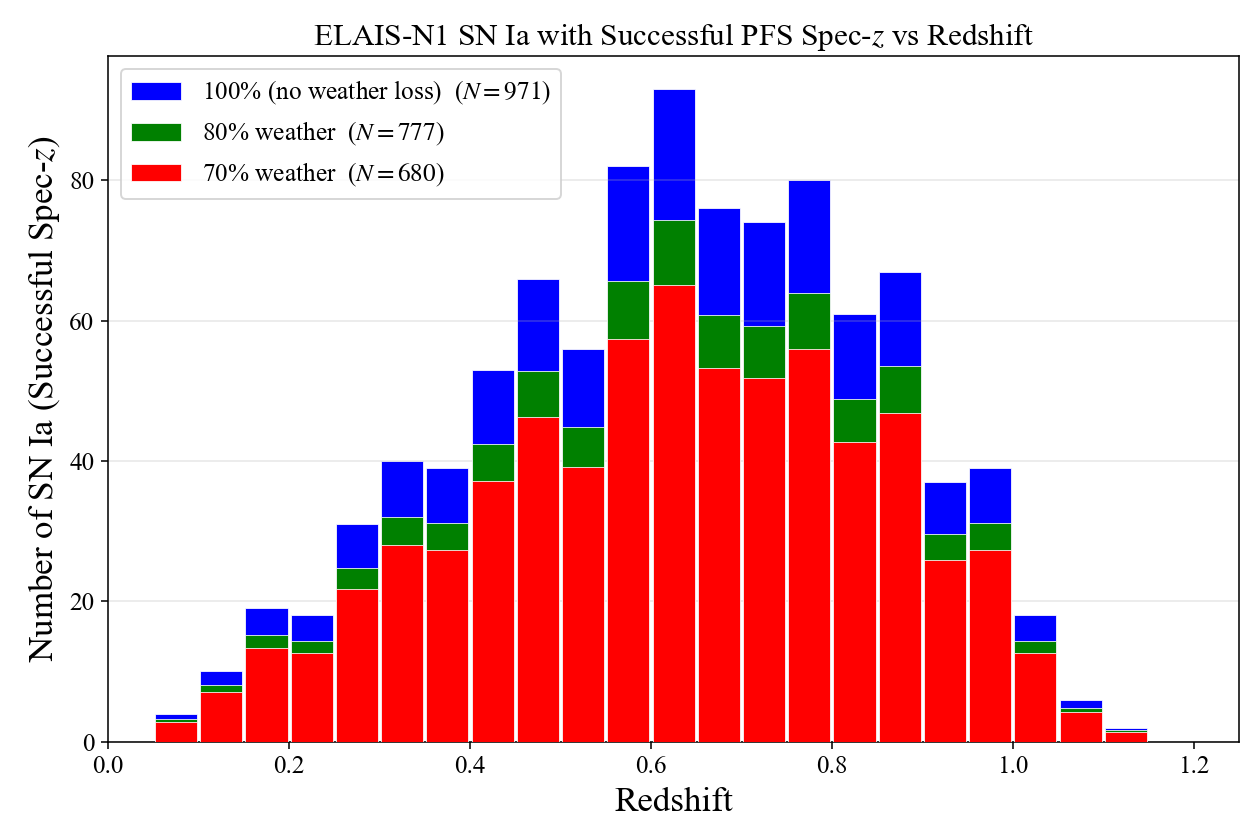
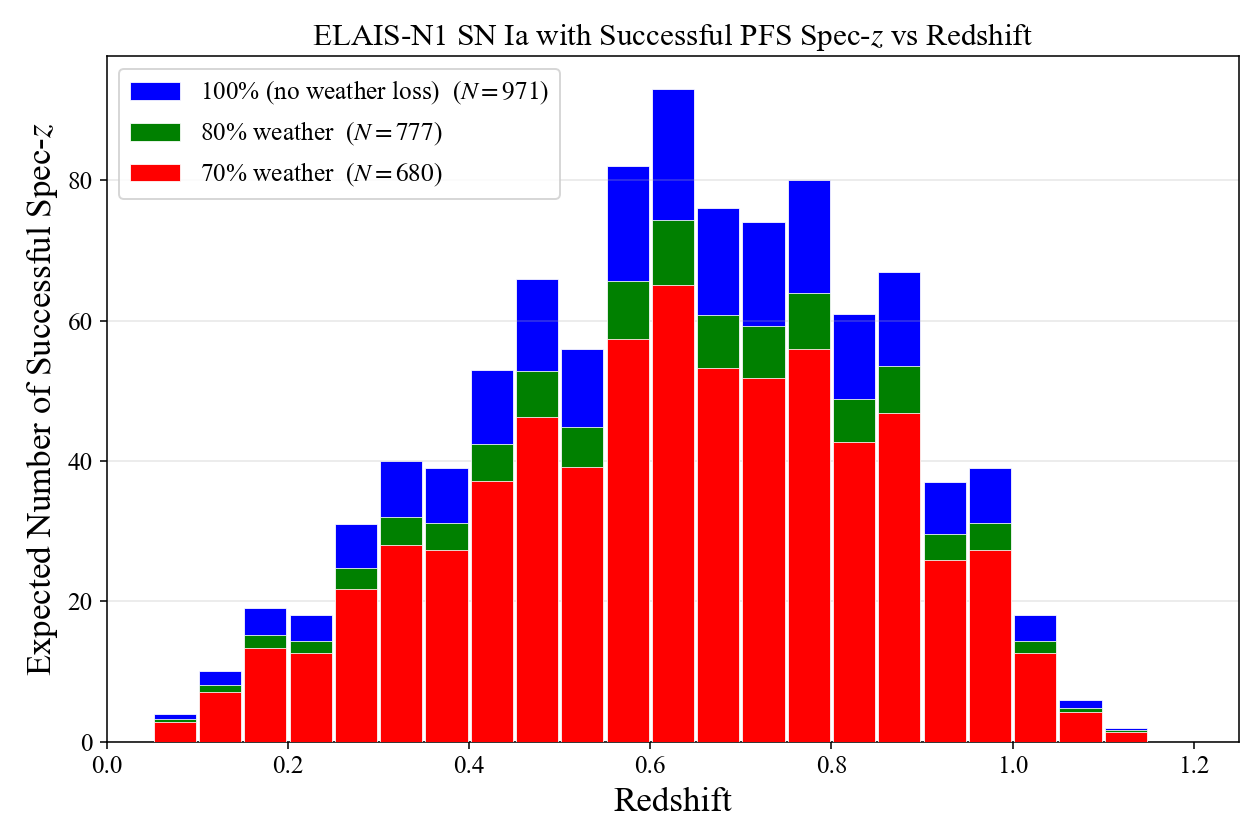
13: y-axis 'Expected Number of Successful Spec-z'

diff --git a/programs_pfs/13_snia_specz_zhist.py b/programs_pfs/13_snia_specz_zhist.py
@@ -56,7 +56,7 @@ def main():
                linewidth=0.4, zorder=i + 1, label=f"{lab}  ($N={n:.0f}$)")
 
     ax.set_xlabel("Redshift", fontsize=18)
-    ax.set_ylabel("Number of SN Ia (Successful Spec-$z$)", fontsize=18)
+    ax.set_ylabel("Expected Number of Successful Spec-$z$", fontsize=18)
     ax.set_title("ELAIS-N1 SN Ia with Successful PFS Spec-$z$ vs Redshift",
                  fontsize=16)
     ax.tick_params(labelsize=13)